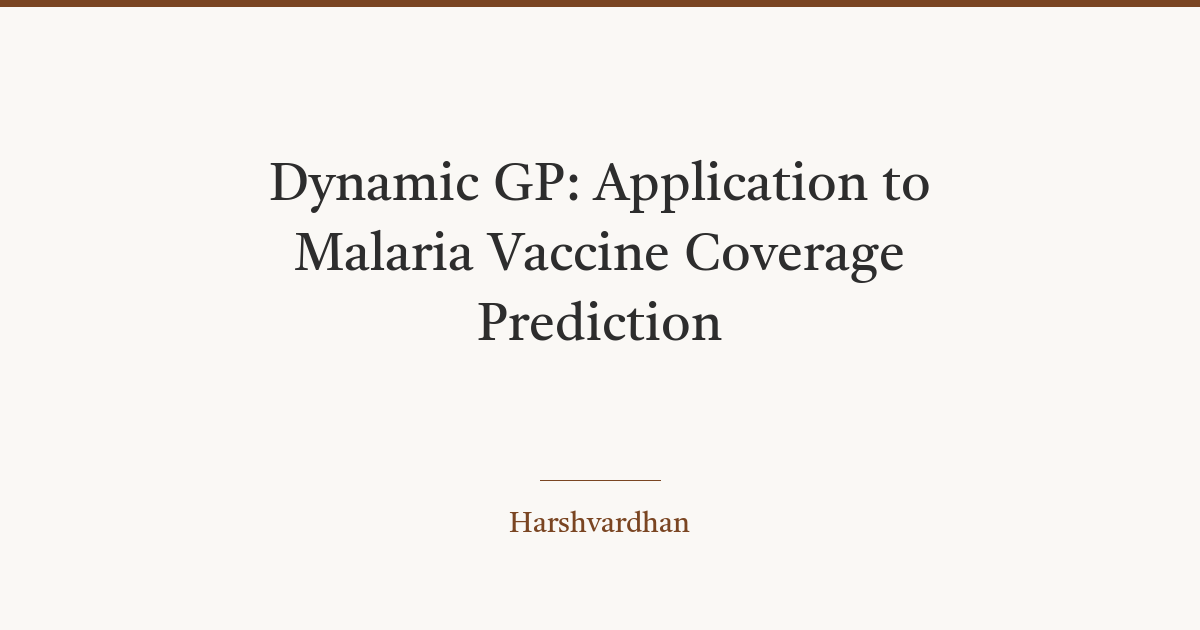
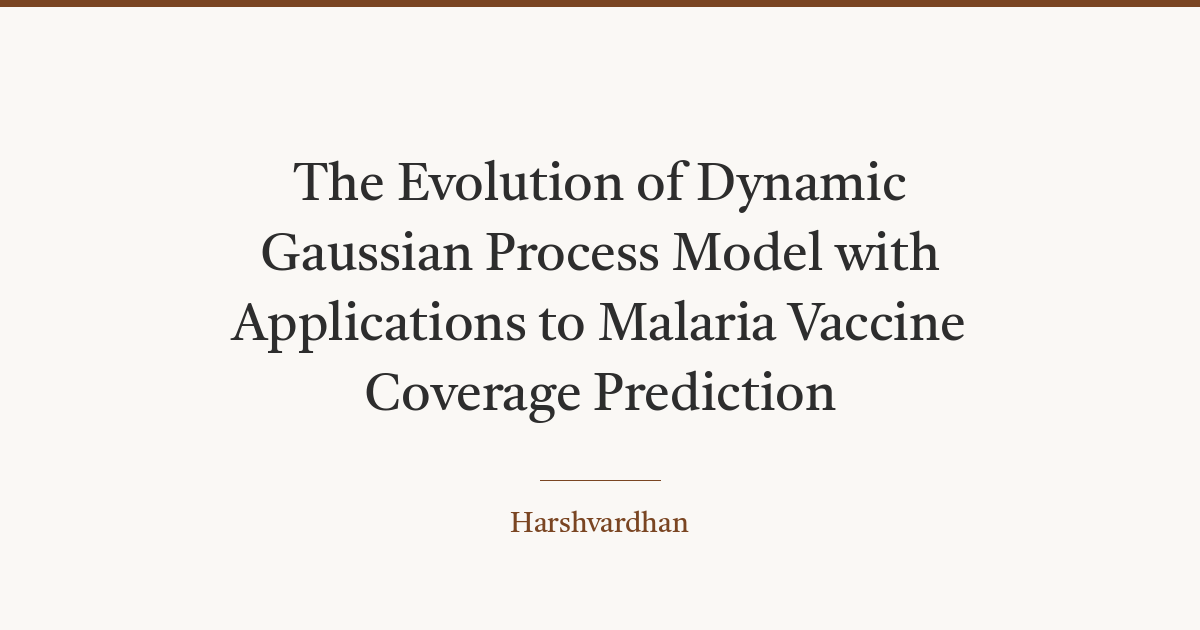
Malaria GP chapter: official title, Springer DOI, arXiv PDF; drop arXiv listing link

diff --git a/content/research/2020-12-20-dynamic-gp-application-to-malaria-vaccine-coverage-prediction/index.md b/content/research/2020-12-20-dynamic-gp-application-to-malaria-vaccine-coverage-prediction/index.md
@@ -1,19 +1,18 @@
 ---
-title: 'Dynamic GP: Application to Malaria Vaccine Coverage Prediction'
+title: 'The Evolution of Dynamic Gaussian Process Model with Applications to Malaria Vaccine Coverage Prediction'
 summary: We applied a dynamic Gaussian process model to predict coverage for novel
   Malaria vaccines in 78 countries. Using publicly available WHO data on coverage
   of nine vaccines, we developed localised models for countries grouped using the
   human development index (HDI). We deployed convolutions of standard GP models with
   weights determined using singular value decomposition of time-series response matrix.
-  [🔗 PDF](https://www.harsh17.in/docs/malaria_paper.pdf)
+  [🔗 PDF](https://arxiv.org/pdf/2012.11124)
 author: Harshvardhan
 date: '2020-12-20'
 slug: dynamic-gp-application-to-malaria-vaccine-coverage-prediction
 authors: "Ranjan, P., Harshvardhan, M."
-venue: "Applied Statistical Methods: ISGES 2020, Springer Singapore (2022)"
-pdf: https://www.harsh17.in/docs/malaria_paper.pdf
-link: https://arxiv.org/abs/2012.11124
-linkText: "arXiv"
+venue: "Applied Statistical Methods: ISGES 2020, Springer Proceedings in Mathematics & Statistics, vol. 380, pp. 99–115 (2022)"
+pdf: https://arxiv.org/pdf/2012.11124
+doi: 10.1007/978-981-16-7932-2_7
 contribution: "Applies dynamic Gaussian-process models to forecast vaccine coverage across 78 malaria-prone countries using existing vaccination data."
 tags:
 - academia
@@ -32,15 +31,14 @@ Gaussian process (GP) based statistical surrogates are popular, inexpensive subs
 
 ### Citation
 
-Ranjan, P. and Harshvardhan, M. (2022). "The Evolution of Dynamic Gaussian Process Model with
-Applications to Malaria Vaccine Coverage Prediction". In D.D. Hanagal, R.V. Latpatel & G. Chandra
-(Eds.), Applied Statistical Methods: ISGES 2020. *Springer*. Singapore.
+Ranjan, P., & Harshvardhan, M. (2022). The Evolution of Dynamic Gaussian Process Model with Applications to Malaria Vaccine Coverage Prediction. In D. D. Hanagal, R. V. Latpate, & G. Chandra (Eds.), *Applied Statistical Methods: ISGES 2020* (Springer Proceedings in Mathematics & Statistics, Vol. 380, pp. 99–115). Springer, Singapore. <https://doi.org/10.1007/978-981-16-7932-2_7>
 
 ### Links
-- PDF: https://www.harsh17.in/docs/malaria_paper.pdf
+- DOI: https://doi.org/10.1007/978-981-16-7932-2_7
+- PDF (arXiv preprint): https://arxiv.org/pdf/2012.11124
 - arXiv: https://arxiv.org/abs/2012.11124
 - Google Books: https://www.google.co.in/books/edition/Applied_Statistical_Methods/h1-vzgEACAAJ?hl=en
 - Blog: https://www.harsh17.in/forecasting-malaria-vaccine-demand/
-- Springer: https://link.springer.com/book/9789811679322
+- Springer (book): https://link.springer.com/book/9789811679322
 
 
